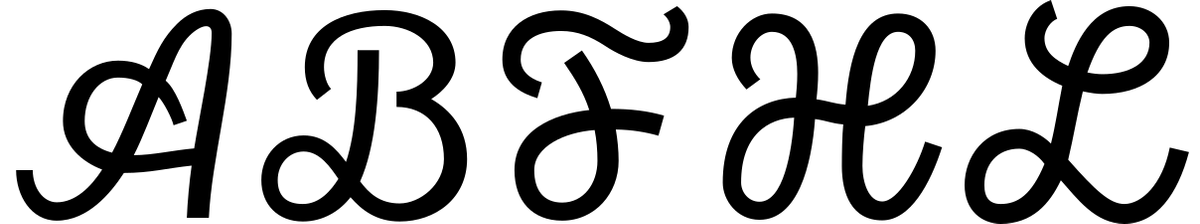
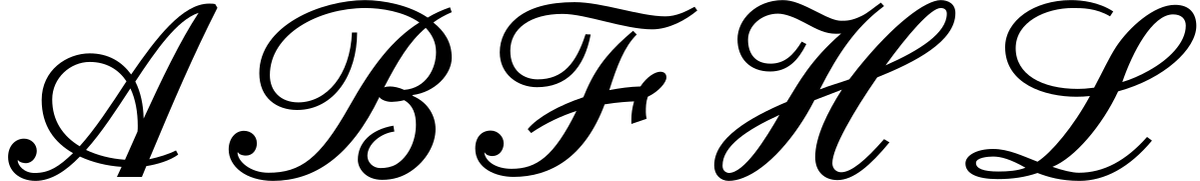
Fix mathcal/mathscr for Lato and PT Sans
\mathcal = Lete Sans Math calligraphic (tex-calligraphic.js, rounded)
\mathscr = NewCM Sans Math ss01 script (script.js, flowing traditional)

Both need data: tex-calligraphic.js stops \mathcal from falling through
to script.js. Without it, both commands show the same glyphs.

diff --git a/mathjax-lato/cjs/svg/script.js b/mathjax-lato/cjs/svg/script.js
@@ -1,0 +1,31 @@
+"use strict";
+Object.defineProperty(exports, "__esModule", { value: true });
+exports.script = void 0;
+exports.script = {
+    0x1D49C: [0.707, 0.016, 0.897, { p: '878 705C870 707 862 707 853 707C745 707 638 568 535 418C498 469 443 504 366 504C273 504 170 436 170 314C170 209 222 140 298 97C240 41 200 16 141 16C97 16 72 48 72 68H74C81 58 100 56 105 56C134 56 150 84 150 106C150 134 127 156 98 156C63 156 33 127 33 81C33 25 78 -16 145 -16C208 -16 268 23 326 83C378 59 436 45 496 41L477 0H579L597 44C641 51 693 66 727 91L718 108C689 93 647 80 609 72C711 316 790 499 887 690ZM810 669C736 557 659 397 586 238C585 293 574 346 552 389C638 519 722 639 809 669ZM562 209C562 200 562 193 561 185L510 70C451 74 398 88 351 110C414 180 473 271 532 361C553 317 562 263 562 209ZM516 390C452 292 386 192 325 125C257 166 213 229 213 316C213 405 288 469 366 469C435 469 485 437 516 390Z' }],
+    0x1D49E: [0.721, 0.016, 0.836, { p: '471 677C411 715 352 721 307 721C143 721 39 623 39 523C39 415 129 360 217 345C186 286 167 227 167 166C167 50 259 -16 373 -16C437 -16 501 3 556 41C611 79 657 135 657 196C657 269 607 304 533 304C422 304 326 196 326 68L349 66C360 179 444 259 515 259C554 259 590 236 590 181C590 103 493 16 378 16C299 16 255 65 255 131C255 184 268 253 327 340C578 340 819 496 819 623C819 673 784 702 719 702C573 702 354 553 240 379C158 388 82 432 82 526C82 635 210 689 316 689C352 689 401 689 458 657ZM347 372C464 538 622 663 724 663C758 663 776 649 776 621C776 559 704 487 604 436C527 397 430 371 348 371Z' }],
+    0x1D49F: [0.721, 0.016, 0.928, { p: '850 616C808 601 797 596 761 570C687 660 565 721 428 721C228 721 72 605 72 451C72 335 168 259 290 259C388 259 536 334 536 519C536 534 536 549 534 564H514C513 370 413 291 287 291C184 291 115 361 115 443C115 586 230 687 435 687C550 687 667 630 729 544C660 486 599 411 541 318C455 179 394 101 328 60C264 93 208 114 150 114C84 114 38 91 38 57C38 17 87 -9 173 -9C235 -9 290 0 342 19C391 0 445 -16 506 -16C677 -16 843 140 843 340C843 412 821 480 784 539C814 573 819 578 858 595ZM793 352C793 142 654 17 501 17C461 17 422 25 385 38C404 47 422 59 441 71C530 132 597 217 646 317C678 380 712 448 754 504C779 457 793 406 793 352ZM290 41C255 27 217 22 172 22C111 22 81 34 81 57C81 79 131 83 151 83C199 83 238 68 290 41Z' }],
+    0x1D4A2: [0.721, 0.016, 0.811, { p: '437 685C395 710 351 721 304 721C179 721 87 653 87 568C87 486 157 435 262 418C243 381 235 336 235 306C235 223 297 173 379 173C428 173 476 188 523 219L525 218C459 93 387 17 258 17C192 17 134 50 128 83H130C136 72 148 69 161 69C190 69 207 94 207 123C207 149 181 172 153 172C116 172 91 141 91 100C91 41 165 -16 269 -16C444 -16 558 64 615 219C636 276 650 313 684 346L668 363C546 252 462 205 386 205C340 205 317 236 317 275C317 306 326 360 360 409C569 409 776 514 776 622C776 673 727 702 668 702C552 702 377 608 276 449C185 462 130 507 130 568C130 633 202 689 312 689C348 689 388 684 428 666ZM733 619C733 537 558 441 379 441C446 560 583 663 673 663C706 663 733 648 733 619Z' }],
+    0x1D4A5: [0.707, 0.186, 0.841, { p: '579 202C538 167 497 146 455 130L547 348C618 362 679 405 716 478L700 490C660 429 615 397 562 384C611 492 664 595 722 636C768 636 831 641 831 686C831 699 817 707 806 707C792 707 774 707 736 686C693 689 675 692 603 692C484 692 321 632 321 487C321 407 375 362 448 347C410 268 379 166 340 90C269 68 195 48 141 23C51 -19 9 -68 9 -117C9 -158 41 -186 91 -186C229 -186 370 -39 436 89C494 110 549 145 595 186ZM670 635C579 569 517 484 465 381C411 382 364 422 364 476C364 548 428 598 489 620C521 632 577 638 625 638C641 638 657 637 670 636ZM317 45C251 -76 180 -154 91 -154C68 -154 54 -135 54 -115C54 -90 68 -51 146 -14C192 9 253 24 317 45Z' }],
+    0x1D4A6: [0.721, 0.016, 1.058, { p: '809 702C757 655 692 627 646 627C623 627 593 641 556 660C484 697 449 711 407 711C298 711 221 632 221 553C221 475 283 421 367 421C437 421 491 465 526 533L507 542C472 487 425 452 369 452C303 452 264 496 264 551C264 606 321 657 388 657C418 657 456 642 495 621C551 591 583 575 625 575C636 575 654 577 663 580L664 577C535 471 498 377 410 220C330 80 277 17 190 17C127 17 83 50 79 83H81C87 72 102 69 111 69C141 69 157 94 157 121C157 151 135 173 108 173C66 173 42 135 42 95C42 39 101 -16 192 -16C316 -16 440 44 573 337C579 325 587 321 608 321C649 321 650 298 650 288C650 221 561 156 561 73C561 22 609 -13 659 -13C723 -13 793 43 871 138L851 154C773 65 714 19 673 19C653 19 640 33 640 55C640 98 720 172 720 243C720 276 705 301 669 337V339C757 367 820 421 891 548C919 599 941 662 961 678H962C963 643 990 630 1009 630C1039 630 1053 651 1053 678C1053 707 1029 721 1000 721C944 721 875 637 777 494C715 403 683 372 639 363C625 376 611 378 595 378C659 489 710 600 822 685Z' }],
+    0x1D4A9: [0.721, 0.016, 1.018, { p: '597 137C612 212 620 305 625 410C633 550 639 645 653 690L639 702C572 675 483 547 375 327C280 135 204 15 125 15C110 15 94 23 92 38H95C101 35 107 34 112 34C140 34 156 58 156 81C156 108 134 134 102 134C68 134 40 106 40 65C40 21 76 -16 124 -16C216 -16 288 88 410 330C467 444 526 543 560 591L561 590C543 526 536 420 533 312C529 169 519 66 499 -14H520C617 67 688 236 747 381C821 562 870 653 905 671H908C908 638 939 624 958 624C983 624 1003 643 1003 672C1003 703 980 721 948 721C918 721 895 708 871 682C819 627 770 519 726 413C681 304 635 193 598 137Z' }],
+    0x1D4AA: [0.713, 0.016, 0.726, { p: '696 576C696 651 638 713 547 713C297 713 86 466 86 197C86 84 149 -16 271 -16C490 -16 668 213 668 415C668 527 589 569 521 569C434 569 352 491 352 380C352 347 356 298 389 243L412 254C387 302 384 338 384 364C384 471 452 531 518 531C566 531 615 493 615 415C615 278 533 167 492 124C430 60 359 16 269 16C187 16 149 81 149 157C149 348 364 677 542 677C619 677 656 633 675 574Z' }],
+    0x1D4AB: [0.721, 0.016, 0.955, { p: '898 702C864 689 836 676 810 659C745 699 661 721 578 721C328 721 166 575 166 432C166 349 228 296 315 296C467 296 542 447 553 589H532C501 427 434 327 317 327C257 327 209 370 209 428C209 561 362 689 577 689C646 689 722 675 778 639C676 564 613 451 519 284C402 74 334 17 202 17C128 17 77 64 77 100H79C85 89 102 87 110 87C140 87 155 111 155 137C155 168 131 188 102 188C67 188 40 157 40 113C40 44 110 -16 221 -16C386 -16 519 74 640 317C705 447 737 548 808 617C842 586 865 543 865 488C865 401 826 331 767 331C745 331 731 344 731 362C731 376 734 399 769 419L758 437C722 418 698 385 698 355C698 319 722 285 773 285C862 285 929 377 929 469C929 541 892 600 836 642C856 657 878 670 905 682Z' }],
+    0x1D4AC: [0.713, 0.04, 0.726, { p: '696 576C696 651 637 713 547 713C297 713 86 466 86 197C86 84 149 -16 271 -16C326 -16 380 -1 428 24C449 -8 473 -40 525 -40C561 -40 613 -16 664 46L648 61C611 24 570 10 541 10C509 10 492 29 476 55C592 137 668 282 668 415C668 527 589 569 521 569C434 569 352 491 352 380C352 347 356 298 389 243L412 254C387 302 384 338 384 364C384 471 452 531 518 531C566 531 615 493 615 415C615 278 533 167 492 124C480 111 468 101 456 90C439 121 415 149 366 149C328 149 297 129 253 88L266 70C297 93 320 101 346 101C377 101 393 81 409 56C367 30 321 16 269 16C187 16 149 81 149 157C149 348 364 677 542 677C619 677 656 633 675 574Z' }],
+    0x1D4AE: [0.713, 0.016, 0.779, { p: '416 150C403 264 324 314 245 314C159 314 70 254 70 149C70 30 175 -16 277 -16C439 -16 574 72 574 214C574 352 404 400 404 515C404 611 507 676 587 676C643 676 701 655 701 591C701 525 650 485 586 478V456C658 456 735 515 735 592C735 680 658 713 589 713C476 713 323 645 323 495C323 357 488 312 488 200C488 79 383 16 285 16C201 16 135 70 135 144C135 222 202 269 253 269C309 269 363 256 395 146Z' }],
+    0x1D4AF: [0.721, 0.016, 0.957, { p: '940 708C905 685 865 665 821 665C716 665 576 721 461 721C272 721 134 632 134 496C134 402 207 345 293 345C411 345 493 426 520 568H499C462 449 403 377 300 377C235 377 177 420 177 504C177 594 270 672 401 672C498 672 653 613 767 613C835 613 904 650 951 689ZM690 580C606 509 548 444 476 291C381 85 309 17 193 17C127 17 86 46 82 83H84C90 72 105 70 113 70C143 70 161 94 161 122C161 150 137 173 109 173C72 173 45 146 45 95C45 33 115 -16 200 -16C276 -16 337 7 397 47C486 106 553 208 584 319C617 433 648 511 704 565Z' }],
+    0x1D4B0: [0.721, 0.016, 0.883, { p: '844 690H754L618 435C563 334 366 16 249 16C226 16 218 30 218 45C218 62 230 90 259 136L454 437C486 486 494 532 494 568C494 669 402 721 306 721C172 721 38 626 38 497C38 426 88 378 158 378C250 378 309 465 324 534H303C278 462 236 409 157 409C109 409 81 447 81 497C81 611 184 684 297 684C357 684 424 648 424 596C424 569 416 537 386 490L234 252C177 163 161 116 161 77C161 20 195 -16 245 -16C304 -16 386 43 461 145L464 144C449 111 446 87 446 69C446 19 486 -13 536 -13C602 -13 670 45 749 141L727 154C651 67 593 19 551 19C532 19 516 29 516 56C516 63 517 82 534 113Z' }],
+    0x1D4B1: [0.721, 0.016, 0.978, { p: '224 22C305 94 384 220 442 364C489 483 526 568 636 686L620 702L592 679C549 643 499 627 462 627C439 627 408 641 371 660C299 697 271 711 229 711C127 711 37 632 37 553C37 475 99 421 183 421C253 421 304 465 339 533L322 542C287 487 240 452 185 452C120 452 80 496 80 551C80 606 136 657 204 657C276 657 355 570 456 570C467 570 485 572 494 575L497 572C404 482 345 403 295 275C226 98 200 45 141 -9C175 -16 184 -16 190 -16C258 -16 326 20 404 81C473 134 561 241 665 404C777 579 840 658 875 678H876C876 644 895 626 922 626C946 626 967 645 967 671C967 701 944 721 915 721C840 721 758 601 637 416C493 198 381 52 227 20Z' }],
+    0x1D4B2: [0.721, 0.016, 1.131, { p: '477 25C565 113 623 217 682 350C743 490 787 617 863 671C838 680 821 683 810 683C719 683 614 570 486 343C418 221 319 61 206 20L204 23C285 97 359 217 409 348C469 504 534 605 615 685L599 702L571 679C528 643 478 627 441 627C418 627 398 641 361 660C288 697 250 711 208 711C106 711 37 632 37 553C37 475 93 421 172 421C239 421 283 465 318 533L301 542C266 487 230 452 174 452C113 452 80 496 80 551C80 606 126 657 193 657C262 657 340 570 435 570C446 570 464 572 473 575L475 573C383 479 320 394 274 272C229 152 189 49 120 -9C134 -13 155 -16 169 -16C279 -16 399 116 511 319C591 462 698 630 786 646L787 645C672 523 600 403 538 233C501 132 458 52 390 -12C404 -16 420 -16 439 -16C550 -16 665 114 773 300C917 548 990 667 1031 679H1032C1032 644 1050 626 1077 626C1103 626 1122 646 1122 671C1122 703 1098 721 1070 721C991 721 929 634 760 339C661 168 579 63 479 23Z' }],
+    0x1D4B3: [0.721, 0.016, 0.935, { p: '599 513C599 628 519 721 392 721C272 721 177 635 177 522C177 442 229 390 308 390C382 390 440 443 464 528L444 533C422 472 386 422 312 422C250 422 220 466 220 521C220 620 296 686 389 686C478 686 519 633 519 531C519 458 480 356 427 261C352 131 257 16 175 16C125 16 94 31 77 72C82 69 95 66 103 66C132 66 152 93 152 122C152 148 127 171 99 171C62 171 38 136 38 95C38 43 78 -16 157 -16C264 -16 340 46 411 148H413C407 132 404 103 404 90C404 21 444 -15 510 -15C596 -15 654 55 725 146L704 162C626 71 579 31 540 31C501 31 488 60 488 100C488 169 530 275 558 339C650 547 748 686 825 686C812 673 807 657 807 644C807 611 833 596 859 596C887 596 916 617 916 655C916 702 880 721 838 721C766 721 685 662 601 513Z' }],
+    0x1D4B4: [0.721, 0.237, 0.971, { p: '865 690 673 427C518 214 418 117 345 117C324 117 315 133 315 148C315 173 331 214 405 306C515 445 552 502 552 568C552 657 468 721 364 721C230 721 95 637 95 511C95 447 148 399 215 399C291 399 368 445 399 561H378C345 473 292 430 221 430C174 430 138 464 138 509C138 618 232 684 357 684C420 684 489 645 489 597C489 561 473 527 369 393C287 287 257 235 257 184C257 122 292 86 346 86C405 86 491 146 564 248L568 243C521 164 502 123 459 38C340 -1 129 -41 129 -169C129 -210 164 -237 214 -237C352 -237 492 -86 557 40C614 65 663 86 732 149L716 165C670 126 618 98 573 81C668 273 784 453 961 690ZM440 -2C373 -123 303 -206 214 -206C191 -206 173 -187 173 -167C173 -88 290 -51 440 -2Z' }],
+    0x1D4B5: [0.721, 0.016, 0.978, { p: '427 544C392 488 361 465 301 465C253 465 210 496 210 554C210 601 252 680 351 680C465 680 557 644 643 612C584 561 529 480 478 359C472 360 466 360 461 360C411 360 364 330 328 292L346 275C386 305 415 308 446 308C450 308 454 308 458 307C420 207 383 130 333 82C280 99 228 114 184 114C112 114 62 86 62 54C62 18 93 -9 179 -9C241 -9 298 6 349 36C453 0 502 -16 556 -16C686 -16 769 51 789 170L768 171C742 80 666 25 554 25C506 25 448 43 389 63C462 117 518 198 555 295C559 294 570 294 574 294C624 294 665 321 698 356L683 373C657 354 619 346 585 345C583 345 579 345 574 346C616 466 654 546 696 594C743 578 788 566 835 566C906 566 957 595 957 627C957 660 924 690 839 690C790 690 736 677 682 642C594 678 487 721 373 721C233 721 167 625 167 554C167 479 233 433 301 433C376 433 414 474 446 536ZM914 627C914 613 884 598 846 598C810 598 771 608 728 624C761 648 796 659 839 659C896 659 914 644 914 627ZM297 54C264 33 226 22 179 22C123 22 105 37 105 54C105 68 134 83 173 83C217 83 245 72 297 54Z' }],
+    0x212C: [0.721, 0.016, 0.997, { p: '939 692C905 680 876 667 848 650C772 701 669 721 592 721C414 721 161 618 161 423C161 322 232 273 315 273C468 273 560 421 560 589H539C532 415 435 304 320 304C247 304 204 351 204 415C204 582 402 689 594 689C657 689 750 675 814 630C702 559 620 451 526 284C407 74 329 17 198 17C124 17 72 64 72 100H74C81 89 98 87 106 87C135 87 151 111 151 137C151 168 127 188 98 188C63 188 36 156 36 112C36 43 106 -16 217 -16C384 -16 533 81 651 326C657 315 679 306 701 306C708 306 735 308 752 313C789 292 800 255 800 213C800 148 770 82 719 51C700 40 678 36 655 36C625 36 602 59 602 86C602 133 655 178 712 185L708 209C615 193 563 138 563 70C563 34 595 -12 662 -12C707 -12 745 0 779 23C843 66 880 134 880 195C880 245 853 303 786 331V334C877 345 946 418 946 486C946 550 916 594 871 630C893 646 918 660 946 672ZM882 509C882 442 842 362 752 355C731 365 708 369 694 369C688 369 676 368 670 365C725 471 772 551 840 608C865 582 882 550 882 509Z' }],
+    0x2130: [0.721, 0.016, 0.787, { p: '442 690C390 716 355 721 303 721C183 721 105 654 105 576C105 482 206 424 352 421C358 421 359 405 364 400V398C206 365 115 270 115 162C115 45 221 -16 342 -16C486 -16 613 74 613 169C613 238 568 290 472 290C369 290 288 216 260 103L282 97C307 186 382 245 454 245C509 245 546 216 546 168C546 137 534 106 509 79C476 43 423 16 352 16C256 16 201 77 201 141C201 231 280 326 406 360C423 350 440 345 462 345C487 345 506 355 506 375C506 395 476 405 427 407C425 411 424 413 423 420C617 434 770 530 770 614C770 664 732 690 665 690C536 690 361 596 348 453C240 453 148 495 148 573C148 640 214 689 316 689C373 689 390 687 431 671ZM727 617C727 551 595 462 423 451C436 546 573 651 672 651C703 651 727 638 727 617Z' }],
+    0x2131: [0.713, 0, 0.964, { p: '940 694C905 675 865 655 821 655C716 655 565 713 450 713C344 713 264 690 212 646C171 612 145 563 145 508C145 419 218 366 297 366C415 366 489 440 516 581L495 582C457 464 403 398 300 398C245 398 188 431 188 515C188 605 270 665 401 665C498 665 653 602 767 602C835 602 904 640 951 679ZM689 596C605 525 546 461 500 358C495 346 491 336 486 325C387 292 300 244 259 195L273 179C335 221 399 250 458 269C366 82 295 33 193 33C131 33 87 62 82 99H84C90 88 106 85 114 85C144 85 161 110 161 137C161 166 136 189 108 189C71 189 45 162 45 116C45 35 128 0 201 0C351 0 492 79 573 296C628 305 671 307 693 308C685 280 682 256 682 235V216L744 237C742 247 741 258 741 264C741 284 741 304 749 327C795 349 825 386 825 406C825 423 813 429 800 429C780 429 746 410 719 369C676 368 634 362 592 354C624 454 653 531 704 581Z' }],
+    0x210B: [0.721, 0.016, 1.046, { p: '749 697 736 711C710 693 683 669 658 657C617 637 596 637 574 637C551 637 520 650 484 669C411 706 377 721 335 721C226 721 151 641 151 562C151 485 200 430 284 430C355 430 398 474 432 542L413 552C379 496 342 462 286 462C220 462 194 506 194 560C194 616 249 666 316 666C345 666 384 651 423 630C478 600 511 584 553 584C558 584 566 584 574 585C448 475 403 388 352 306C198 241 56 157 56 47C56 9 81 -16 115 -16C134 -16 154 -12 174 -4C273 34 386 158 465 313L577 356C519 266 468 163 468 81C468 22 505 -13 559 -13C623 -13 692 45 771 141L749 154C673 67 615 19 574 19C554 19 538 34 538 56C538 117 623 265 721 406C876 468 1040 553 1040 668C1040 706 1012 721 980 721C918 721 788 624 642 443L607 398C566 383 527 373 487 357C563 508 636 608 730 682ZM1005 666C1005 587 894 516 755 455C846 581 940 689 980 689C996 689 1005 681 1005 666ZM322 253C265 154 179 16 115 16C103 18 90 25 90 46C90 126 189 192 322 253Z' }],
+    0x2110: [0.708, 0.016, 0.941, { p: '66 100C72 89 89 87 98 87C127 87 143 111 143 137C143 168 119 188 89 188C55 188 27 156 27 112C27 43 98 -16 209 -16C316 -16 419 19 508 111C560 167 604 257 647 349C716 365 775 408 812 479L795 490C757 431 714 400 664 386C712 491 761 592 817 633C847 633 932 635 932 687C932 700 918 708 901 708C891 708 857 704 821 680C795 683 753 688 698 688C635 688 562 681 506 646C455 615 415 562 415 494C415 412 470 362 546 346C536 327 527 306 517 284C420 64 321 17 190 17C115 17 64 72 64 100ZM765 630C681 574 623 498 562 380C488 389 458 443 458 485C458 542 500 587 548 608C595 629 657 634 709 634C730 634 749 634 765 633Z' }],
+    0x2112: [0.721, 0.016, 0.992, { p: '638 675C578 714 510 721 465 721C315 721 197 638 197 529C197 379 358 327 488 327C506 327 526 328 543 330C475 204 385 98 329 62C269 85 211 114 148 114C78 114 35 86 35 55C35 14 81 -9 167 -9C228 -9 280 -1 329 16C371 0 422 -16 501 -16C603 -16 704 38 796 148L776 163C690 66 599 17 498 17C470 17 431 27 390 41C480 77 593 209 658 349C846 400 977 523 977 616C977 665 951 702 890 702C805 702 703 611 650 531C620 485 596 431 560 364C529 360 513 359 494 359C345 359 240 419 240 525C240 633 363 689 473 689C510 689 568 689 625 655ZM934 617C934 546 863 478 784 434C748 414 710 397 675 387C716 507 797 663 882 663C916 663 934 645 934 617ZM279 37C247 25 210 22 169 22C108 22 78 34 78 57C78 79 128 83 148 83C180 83 219 72 279 38Z' }],
+    0x2133: [0.707, 0.016, 1.125, { p: '1099 705C1087 707 1078 707 1070 707C861 680 701 333 581 141C547 85 518 41 491 41C479 41 477 49 477 60C477 82 492 115 495 124C546 238 685 484 833 692L817 705C807 707 804 707 799 707C685 707 572 615 361 262C253 82 196 16 125 16C110 16 94 23 92 38H95C101 35 106 34 111 34C140 34 156 57 156 80C156 107 134 134 102 134C68 134 40 106 40 66C40 21 76 -16 124 -16C247 -16 322 138 496 416C570 533 669 644 747 676L748 675C678 595 602 477 547 391C484 295 397 151 397 69C397 25 420 -4 455 -4C541 -4 587 81 679 242C831 512 935 633 1025 666L1026 664C819 386 703 188 703 73C703 19 743 -13 793 -13C858 -13 927 45 1006 141L986 157C911 70 850 19 808 19C789 19 773 29 773 56C773 117 907 375 1108 691Z' }],
+    0x211B: [0.721, 0.016, 0.99, { p: '894 702C860 689 832 676 806 659C741 699 657 721 574 721C324 721 162 575 162 432C162 349 223 296 311 296C455 296 540 448 549 584H528C497 423 430 327 313 327C253 327 205 370 205 428C205 561 358 689 573 689C642 689 718 675 774 639C671 564 603 451 510 284C392 74 329 17 198 17C124 17 72 64 72 100H74C81 89 98 87 106 87C135 87 151 111 151 137C151 168 127 188 98 188C63 188 36 157 36 113C36 44 106 -16 217 -16C382 -16 515 77 633 319C644 312 670 307 682 307C714 307 716 266 716 257C716 190 628 156 628 73C628 22 677 -13 726 -13C783 -13 843 31 911 108L893 125C829 56 776 19 741 19C720 19 707 33 707 55C707 98 787 166 787 237C787 270 763 301 730 325V327C852 331 919 412 919 496C919 551 890 605 832 642C852 657 874 670 901 682ZM854 510C854 437 804 362 720 354C702 365 681 371 657 371C707 475 743 557 804 617C838 590 854 551 854 510Z' }]
+};

diff --git a/mathjax-ptsans/cjs/svg/script.js b/mathjax-ptsans/cjs/svg/script.js
@@ -1,0 +1,31 @@
+"use strict";
+Object.defineProperty(exports, "__esModule", { value: true });
+exports.script = void 0;
+exports.script = {
+    0x1D49C: [0.691, 0.015, 0.876, { p: '858 689C850 691 842 691 833 691C728 691 623 554 523 408C487 458 433 492 358 492C266 492 166 426 166 306C166 204 217 136 291 94C235 40 196 15 137 15C94 15 71 47 71 67H73C79 56 97 54 102 54C131 54 147 82 147 104C147 131 124 153 95 153C61 153 32 124 32 79C32 25 76 -15 141 -15C203 -15 261 23 319 81C369 57 426 44 485 40L466 0H566L583 43C626 50 677 65 710 89L701 106C673 91 632 78 595 71C695 308 772 488 867 674ZM791 654C719 544 644 387 573 233C572 286 561 338 539 380C623 507 705 624 790 654ZM549 204C549 196 549 189 548 180L498 69C441 73 388 86 343 108C405 176 462 264 520 353C540 310 549 257 549 204ZM504 381C442 285 377 188 318 122C251 162 208 223 208 308C208 396 282 458 358 458C425 458 473 427 504 381Z' }],
+    0x1D49E: [0.704, 0.015, 0.817, { p: '460 661C402 699 344 704 300 704C139 704 38 609 38 511C38 406 126 352 212 337C181 280 163 221 163 162C163 49 253 -15 365 -15C427 -15 490 3 543 40C596 77 642 132 642 192C642 262 593 297 521 297C412 297 319 192 319 67L341 65C352 175 434 253 503 253C541 253 576 231 576 177C576 100 482 15 369 15C292 15 249 64 249 128C249 179 261 247 320 332C565 332 800 485 800 609C800 658 766 686 702 686C560 686 345 540 235 370C155 379 80 422 80 513C80 620 205 673 308 673C344 673 392 673 448 642ZM339 364C453 526 608 648 707 648C741 648 758 634 758 607C758 546 688 476 590 426C514 387 420 363 340 363Z' }],
+    0x1D49F: [0.704, 0.015, 0.907, { p: '830 602C789 587 779 582 743 557C671 645 552 704 418 704C222 704 71 591 71 441C71 327 164 253 283 253C379 253 524 326 524 507C524 522 524 536 522 551H502C501 362 404 284 281 284C179 284 113 353 113 433C113 573 224 671 425 671C537 671 652 616 712 532C645 475 585 402 529 311C445 175 385 98 321 58C258 91 203 112 147 112C82 112 37 89 37 55C37 16 85 -9 169 -9C230 -9 283 0 334 18C382 0 435 -15 494 -15C661 -15 824 136 824 332C824 403 802 469 766 527C795 560 800 565 838 581ZM775 344C775 138 639 16 490 16C450 16 412 25 376 37C395 46 412 57 430 70C518 129 583 212 631 310C662 371 696 438 737 492C761 447 775 397 775 344ZM283 40C249 27 212 22 168 22C109 22 79 33 79 55C79 77 128 81 148 81C195 81 233 67 283 40Z' }],
+    0x1D4A2: [0.704, 0.015, 0.792, { p: '427 669C386 694 343 704 297 704C175 704 85 637 85 554C85 475 154 425 256 408C238 372 230 328 230 299C230 218 290 169 370 169C418 169 465 183 511 214L512 213C449 91 378 16 252 16C188 16 131 49 125 81H127C133 71 145 68 157 68C186 68 202 92 202 120C202 146 177 168 150 168C114 168 89 137 89 97C89 40 161 -15 262 -15C434 -15 545 63 601 214C621 270 635 305 668 338L653 355C533 246 451 200 377 200C332 200 310 231 310 269C310 299 319 352 352 400C555 400 758 502 758 608C758 658 710 686 653 686C539 686 368 594 270 439C180 451 127 495 127 554C127 618 198 673 304 673C340 673 379 668 418 651ZM716 605C716 525 545 430 370 430C436 547 570 648 658 648C690 648 716 633 716 605Z' }],
+    0x1D4A5: [0.691, 0.181, 0.822, { p: '566 198C526 163 486 142 445 127L534 340C604 354 663 396 700 467L684 479C645 419 601 387 549 375C596 481 649 581 705 621C750 621 812 626 812 670C812 683 798 691 787 691C774 691 756 691 719 670C677 673 659 676 589 676C472 676 314 617 314 476C314 398 366 354 438 339C401 261 370 162 332 88C262 67 191 47 137 23C50 -18 9 -67 9 -115C9 -155 40 -181 89 -181C223 -181 362 -38 426 87C483 108 536 141 581 181ZM655 620C566 555 505 472 454 372C402 373 356 412 356 465C356 535 418 584 478 606C509 617 564 623 611 623C626 623 642 622 655 621ZM310 44C245 -74 176 -151 89 -151C67 -151 52 -132 52 -113C52 -88 67 -50 142 -13C188 9 247 24 310 44Z' }],
+    0x1D4A6: [0.704, 0.015, 1.034, { p: '790 686C740 640 676 613 631 613C609 613 579 626 543 645C472 681 439 695 398 695C291 695 216 617 216 540C216 464 277 411 359 411C427 411 480 454 513 521L495 530C461 476 415 442 361 442C296 442 258 485 258 538C258 592 314 642 379 642C408 642 446 627 484 607C538 577 570 562 611 562C621 562 639 564 648 567L649 564C523 460 487 368 401 215C323 78 271 16 186 16C124 16 81 49 77 81H79C85 71 99 68 109 68C137 68 154 92 154 118C154 148 132 169 106 169C65 169 41 132 41 93C41 38 98 -15 188 -15C308 -15 429 43 560 329C566 318 574 314 594 314C634 314 635 291 635 282C635 216 548 153 548 72C548 22 595 -12 644 -12C706 -12 775 42 851 135L831 151C755 64 698 18 658 18C637 18 625 32 625 53C625 95 703 168 703 238C703 270 689 294 654 329V331C740 359 801 411 870 535C898 585 919 647 939 662H940C941 628 967 616 986 616C1015 616 1029 636 1029 662C1029 691 1005 704 977 704C922 704 855 622 759 483C699 394 667 364 624 355C611 367 596 369 581 369C644 478 694 586 804 669Z' }],
+    0x1D4A9: [0.704, 0.015, 0.994, { p: '583 134C598 207 606 298 611 401C618 537 624 630 637 674L624 686C559 659 471 534 366 320C274 132 199 14 122 14C108 14 92 23 90 37H93C98 34 105 33 110 33C136 33 153 56 153 79C153 106 131 131 99 131C67 131 39 104 39 64C39 20 74 -15 121 -15C211 -15 282 86 401 323C456 434 513 531 547 577L548 576C531 513 524 410 521 304C517 165 507 65 488 -13H508C603 66 672 231 730 372C802 549 850 637 884 656H888C888 623 917 610 936 610C960 610 980 628 980 657C980 687 957 704 927 704C897 704 874 692 851 666C800 613 752 507 709 404C665 297 620 189 584 134Z' }],
+    0x1D4AA: [0.697, 0.015, 0.709, { p: '680 563C680 636 623 697 534 697C290 697 84 455 84 193C84 82 146 -15 264 -15C479 -15 653 208 653 406C653 514 575 555 509 555C424 555 344 480 344 371C344 339 347 291 380 238L403 248C378 295 375 330 375 356C375 460 442 519 506 519C553 519 601 482 601 406C601 272 521 163 481 121C420 58 351 15 262 15C182 15 146 79 146 154C146 340 356 661 530 661C605 661 641 618 659 561Z' }],
+    0x1D4AB: [0.704, 0.015, 0.933, { p: '877 686C845 673 817 660 791 644C728 683 646 704 565 704C321 704 162 562 162 422C162 341 222 289 307 289C456 289 530 437 540 575H520C490 417 424 320 310 320C251 320 204 362 204 418C204 548 354 673 564 673C631 673 705 659 760 624C660 551 599 441 507 278C393 73 326 16 198 16C125 16 75 63 75 97H77C83 87 99 85 108 85C136 85 152 109 152 134C152 164 128 183 99 183C66 183 39 154 39 111C39 43 108 -15 216 -15C377 -15 507 73 625 310C689 437 720 535 789 603C823 573 846 531 846 477C846 392 807 324 749 324C728 324 714 336 714 354C714 367 717 389 751 409L741 427C705 408 682 376 682 346C682 312 705 279 755 279C842 279 908 368 908 458C908 529 871 586 817 627C836 642 858 655 884 666Z' }],
+    0x1D4AC: [0.697, 0.039, 0.709, { p: '680 563C680 636 622 697 534 697C290 697 84 455 84 193C84 82 146 -15 264 -15C319 -15 371 -1 418 24C439 -8 462 -39 512 -39C548 -39 599 -15 649 45L633 59C596 24 557 10 529 10C497 10 481 29 465 53C578 134 653 276 653 406C653 514 575 555 509 555C424 555 344 480 344 371C344 339 347 291 380 238L403 248C378 295 375 330 375 356C375 460 442 519 506 519C553 519 601 482 601 406C601 272 521 163 481 121C469 109 457 98 446 88C428 118 406 146 358 146C321 146 290 126 247 86L260 69C290 91 313 98 338 98C368 98 384 79 400 54C359 30 314 15 262 15C182 15 146 79 146 154C146 340 356 661 530 661C605 661 641 618 659 561Z' }],
+    0x1D4AE: [0.697, 0.015, 0.761, { p: '407 147C394 258 317 306 240 306C156 306 69 248 69 146C69 30 171 -15 271 -15C428 -15 561 71 561 209C561 344 395 390 395 503C395 596 495 660 574 660C628 660 685 640 685 577C685 512 635 473 573 467V446C643 446 718 503 718 578C718 664 643 697 575 697C465 697 316 630 316 484C316 348 477 304 477 196C477 77 374 15 279 15C197 15 132 69 132 140C132 217 198 262 247 262C302 262 355 250 386 142Z' }],
+    0x1D4AF: [0.704, 0.015, 0.935, { p: '918 692C884 669 846 650 802 650C700 650 563 704 450 704C265 704 131 617 131 485C131 393 202 337 286 337C402 337 482 416 508 554H488C451 439 394 368 293 368C230 368 173 410 173 492C173 580 263 657 392 657C487 657 637 599 749 599C816 599 883 635 930 673ZM674 567C592 497 535 434 465 284C372 83 302 16 189 16C124 16 84 45 80 81H82C88 71 102 69 111 69C139 69 157 92 157 119C157 147 134 169 107 169C71 169 44 142 44 93C44 32 113 -15 196 -15C270 -15 329 7 387 46C475 104 540 203 571 312C603 423 633 499 688 552Z' }],
+    0x1D4B0: [0.704, 0.015, 0.863, { p: '825 674H737L604 425C550 326 358 15 243 15C220 15 213 30 213 44C213 60 224 88 253 133L444 427C475 475 483 520 483 554C483 654 393 704 299 704C168 704 37 612 37 486C37 416 86 369 155 369C244 369 302 454 317 522H296C272 451 231 400 154 400C107 400 79 437 79 486C79 596 179 668 290 668C348 668 414 633 414 582C414 555 407 525 377 479L229 246C173 159 157 114 157 75C157 19 191 -15 240 -15C297 -15 377 42 450 141L453 140C439 109 436 85 436 68C436 18 475 -12 524 -12C588 -12 655 44 732 137L710 151C636 66 579 18 538 18C520 18 504 29 504 54C504 61 505 80 522 111Z' }],
+    0x1D4B1: [0.704, 0.015, 0.955, { p: '219 22C298 92 375 215 431 356C478 471 513 554 621 670L606 686L578 663C536 628 488 613 451 613C428 613 399 626 363 645C292 681 264 695 223 695C124 695 36 617 36 540C36 464 96 411 178 411C247 411 297 454 331 521L315 530C281 476 235 442 180 442C117 442 78 485 78 538C78 592 133 642 199 642C270 642 346 557 446 557C456 557 473 559 483 562L486 559C395 470 337 394 288 269C220 95 196 44 137 -9C171 -15 179 -15 186 -15C252 -15 319 19 395 79C462 131 548 236 650 395C759 566 821 643 855 662H856C856 629 874 612 901 612C924 612 945 630 945 656C945 685 922 704 894 704C821 704 741 587 622 407C482 194 372 51 221 19Z' }],
+    0x1D4B2: [0.704, 0.015, 1.105, { p: '466 25C552 111 609 212 666 342C726 479 769 603 843 656C819 664 802 667 791 667C702 667 600 557 475 335C408 216 312 59 201 19L199 23C279 94 351 212 400 340C458 492 522 591 601 669L585 686L558 663C516 628 467 613 430 613C408 613 388 626 353 645C282 681 244 695 203 695C104 695 36 617 36 540C36 464 91 411 168 411C234 411 277 454 311 521L294 530C260 476 224 442 170 442C111 442 78 485 78 538C78 592 123 642 189 642C256 642 332 557 425 557C436 557 453 559 462 562L464 560C374 468 313 385 267 265C223 149 184 48 117 -9C131 -12 152 -15 165 -15C273 -15 389 114 499 312C577 451 682 616 768 631L769 630C657 511 586 394 526 228C490 129 448 51 381 -11C395 -15 410 -15 428 -15C537 -15 650 112 755 293C896 535 967 652 1007 663H1008C1008 629 1026 612 1053 612C1077 612 1097 631 1097 656C1097 687 1073 704 1045 704C969 704 908 619 742 331C646 164 566 61 468 23Z' }],
+    0x1D4B3: [0.704, 0.015, 0.913, { p: '585 501C585 614 507 704 383 704C265 704 173 620 173 510C173 431 223 381 301 381C373 381 429 433 453 516L434 521C412 461 377 412 304 412C244 412 215 455 215 509C215 606 289 670 380 670C467 670 507 618 507 519C507 448 469 347 417 255C344 128 251 15 171 15C122 15 92 31 75 71C80 68 93 65 100 65C129 65 149 91 149 119C149 145 124 167 96 167C60 167 37 133 37 93C37 42 76 -15 154 -15C258 -15 332 45 402 145H404C398 129 395 100 395 88C395 20 434 -14 498 -14C582 -14 639 53 708 142L688 158C612 70 566 31 528 31C490 31 477 58 477 97C477 165 518 269 545 331C635 534 731 670 806 670C793 658 788 642 788 629C788 596 814 582 839 582C867 582 895 603 895 640C895 686 860 704 819 704C748 704 669 647 587 501Z' }],
+    0x1D4B4: [0.704, 0.232, 0.949, { p: '846 674 658 417C506 209 408 115 337 115C317 115 307 130 307 145C307 169 324 209 396 299C503 435 539 491 539 554C539 642 457 704 356 704C224 704 93 622 93 499C93 437 145 389 210 389C284 389 360 435 389 548H369C337 462 285 420 216 420C170 420 135 453 135 497C135 604 227 668 348 668C410 668 478 630 478 583C478 548 462 514 361 384C281 281 251 230 251 179C251 119 285 84 338 84C396 84 480 142 551 242L554 238C509 160 491 120 449 37C332 -1 126 -40 126 -165C126 -205 160 -232 209 -232C344 -232 481 -84 544 39C600 64 648 84 715 146L700 161C655 123 604 95 560 79C653 266 766 443 939 674ZM429 -2C365 -120 296 -201 209 -201C187 -201 169 -182 169 -163C169 -86 283 -50 429 -2Z' }],
+    0x1D4B5: [0.704, 0.015, 0.955, { p: '417 532C383 477 353 454 294 454C247 454 205 485 205 541C205 587 246 664 343 664C454 664 544 629 628 598C571 548 517 469 467 351C461 352 455 352 450 352C402 352 356 323 321 285L338 269C377 298 406 301 436 301C440 301 444 301 448 300C410 202 374 127 325 80C274 96 222 112 179 112C110 112 60 84 60 52C60 17 91 -9 175 -9C236 -9 291 6 341 35C443 0 491 -15 543 -15C670 -15 751 50 771 166L750 167C725 78 651 25 541 25C494 25 438 42 380 61C451 115 506 194 542 288C546 287 557 287 561 287C610 287 650 314 682 347L667 365C642 345 605 338 572 337C570 337 566 337 561 338C602 455 639 533 680 580C726 565 770 553 816 553C886 553 935 581 935 613C935 645 903 674 820 674C772 674 719 661 666 627C580 662 476 704 365 704C228 704 163 611 163 541C163 468 228 423 294 423C367 423 405 463 436 524ZM893 613C893 599 864 584 826 584C791 584 753 594 711 610C743 633 778 644 820 644C875 644 893 629 893 613ZM290 52C258 32 220 22 175 22C120 22 102 36 102 52C102 67 131 81 169 81C212 81 240 71 290 52Z' }],
+    0x212C: [0.704, 0.015, 0.974, { p: '917 676C884 664 856 652 828 635C754 685 654 704 578 704C405 704 157 604 157 413C157 315 227 266 307 266C457 266 547 411 547 575H527C520 406 425 297 313 297C241 297 199 343 199 406C199 569 393 673 580 673C642 673 733 659 795 616C686 546 606 441 513 278C398 73 322 16 194 16C121 16 71 63 71 97H73C79 87 95 85 104 85C132 85 148 109 148 134C148 164 124 183 95 183C61 183 35 153 35 110C35 42 104 -15 212 -15C375 -15 521 79 636 319C642 307 663 299 685 299C692 299 718 301 735 305C771 285 782 249 782 208C782 145 752 80 702 50C684 39 662 35 640 35C611 35 588 57 588 84C588 130 640 174 696 180L692 204C601 189 550 135 550 69C550 33 581 -11 647 -11C691 -11 728 0 761 23C824 65 860 131 860 191C860 240 833 296 768 324V326C857 337 924 408 924 475C924 537 895 580 851 616C872 631 897 645 924 657ZM862 497C862 431 823 354 735 346C714 357 692 361 678 361C672 361 660 360 655 357C708 460 754 538 821 594C846 569 862 537 862 497Z' }],
+    0x2130: [0.704, 0.015, 0.769, { p: '431 674C381 700 346 704 296 704C178 704 102 639 102 563C102 470 201 414 344 411C349 411 351 396 356 390V388C201 357 113 263 113 158C113 44 216 -15 334 -15C475 -15 599 73 599 165C599 233 554 283 461 283C361 283 282 211 254 100L276 94C300 181 373 240 444 240C497 240 533 211 533 164C533 134 522 104 497 77C465 42 413 15 344 15C250 15 197 75 197 137C197 225 274 319 397 352C413 342 429 337 451 337C476 337 494 346 494 366C494 386 465 396 417 398C415 402 414 404 413 410C603 424 752 518 752 600C752 649 715 674 650 674C524 674 353 582 340 443C235 443 145 484 145 560C145 625 209 673 308 673C365 673 381 671 421 656ZM710 603C710 538 581 451 413 441C426 533 560 636 657 636C687 636 710 623 710 603Z' }],
+    0x2131: [0.697, 0, 0.942, { p: '918 678C884 659 846 640 802 640C700 640 552 697 440 697C336 697 258 674 207 631C167 598 141 550 141 496C141 409 213 358 290 358C406 358 478 429 504 568L484 569C447 453 394 388 293 388C240 388 183 421 183 503C183 591 263 650 392 650C487 650 637 588 749 588C816 588 883 625 930 663ZM673 582C591 512 533 450 489 349C484 338 480 328 475 318C378 285 293 239 253 191L266 175C327 216 389 244 448 262C358 80 288 32 189 32C128 32 85 60 80 96H82C88 86 104 83 112 83C140 83 157 108 157 134C157 162 133 184 106 184C70 184 44 158 44 114C44 34 125 0 197 0C343 0 481 77 560 289C614 298 656 300 677 301C669 274 666 250 666 230V211L727 232C725 241 724 252 724 258C724 278 724 297 732 320C777 341 806 377 806 397C806 413 794 419 782 419C763 419 729 401 702 361C660 360 619 354 578 345C610 444 637 519 688 568Z' }],
+    0x210B: [0.704, 0.015, 1.022, { p: '732 681 719 695C694 677 667 654 643 642C603 622 582 622 561 622C538 622 508 635 472 654C402 690 368 704 327 704C220 704 148 626 148 549C148 473 196 420 278 420C346 420 388 463 422 530L404 539C370 485 334 451 280 451C215 451 190 494 190 547C190 602 243 651 308 651C337 651 375 636 413 616C467 586 499 571 540 571C545 571 553 571 561 572C438 464 394 379 344 299C194 236 54 154 54 46C54 9 79 -15 113 -15C131 -15 151 -11 170 -4C266 33 377 155 454 305L564 347C507 260 457 159 457 79C457 22 493 -12 546 -12C609 -12 676 44 753 137L732 151C658 66 601 18 561 18C541 18 526 33 526 54C526 115 609 259 704 397C856 457 1016 540 1016 653C1016 690 989 704 957 704C897 704 770 610 627 433L593 388C553 374 514 365 476 348C550 496 621 594 713 666ZM982 651C982 574 873 504 738 445C826 568 918 673 957 673C973 673 982 665 982 651ZM315 247C259 151 175 15 113 15C100 17 88 25 88 45C88 123 184 188 315 247Z' }],
+    0x2110: [0.692, 0.015, 0.919, { p: '65 97C71 87 87 85 95 85C124 85 139 109 139 134C139 164 116 183 87 183C53 183 27 153 27 110C27 42 95 -15 204 -15C308 -15 409 18 496 109C547 163 590 251 632 341C700 357 757 399 793 468L777 479C740 421 698 390 649 377C696 480 743 578 798 618C827 618 910 620 910 671C910 684 897 692 880 692C870 692 837 688 802 664C777 667 736 672 682 672C620 672 549 665 494 631C445 601 406 549 406 483C406 403 459 354 533 338C524 320 514 299 505 278C410 63 314 16 186 16C113 16 63 71 63 97ZM747 616C665 561 609 487 549 371C477 380 448 433 448 473C448 530 489 574 535 594C581 615 642 619 693 619C713 619 732 619 747 618Z' }],
+    0x2112: [0.704, 0.015, 0.97, { p: '623 659C565 698 498 704 454 704C307 704 193 623 193 517C193 370 349 320 477 320C494 320 513 321 531 323C464 199 376 95 322 60C262 83 206 112 145 112C76 112 34 84 34 53C34 13 79 -9 163 -9C222 -9 274 -1 322 15C363 0 412 -15 490 -15C589 -15 688 37 778 145L758 159C674 65 585 16 487 16C459 16 421 27 381 40C469 75 579 204 643 341C826 390 954 511 954 602C954 650 930 686 869 686C786 686 687 596 635 519C606 473 582 421 547 356C517 352 501 351 483 351C337 351 235 409 235 512C235 618 355 673 462 673C498 673 554 673 611 640ZM912 603C912 533 843 467 766 424C731 405 694 387 659 378C700 495 779 648 862 648C895 648 912 630 912 603ZM273 36C241 25 205 22 165 22C106 22 76 33 76 55C76 77 125 81 145 81C176 81 214 71 273 37Z' }],
+    0x2133: [0.691, 0.015, 1.099, { p: '1074 689C1062 691 1054 691 1045 691C841 664 685 325 568 137C534 83 506 40 480 40C468 40 466 48 466 58C466 80 481 113 484 121C533 233 669 472 814 676L798 689C788 691 785 691 781 691C669 691 559 601 353 256C247 80 192 15 122 15C108 15 92 23 90 37H93C98 34 104 33 109 33C136 33 153 55 153 78C153 105 131 131 99 131C67 131 39 104 39 65C39 20 74 -15 121 -15C241 -15 315 135 485 407C557 521 654 629 730 660L731 659C662 581 588 466 534 382C472 288 387 148 387 68C387 25 410 -4 445 -4C529 -4 574 79 663 237C812 500 913 618 1001 651L1002 649C800 377 687 183 687 72C687 18 726 -12 775 -12C838 -12 906 44 983 137L963 154C890 69 830 18 789 18C771 18 755 29 755 54C755 115 887 366 1082 675Z' }],
+    0x211B: [0.704, 0.015, 0.967, { p: '873 686C840 673 813 660 787 644C724 683 642 704 561 704C317 704 158 562 158 422C158 341 218 289 303 289C445 289 528 438 536 571H516C486 413 420 320 305 320C247 320 200 362 200 418C200 548 349 673 560 673C627 673 701 659 756 624C656 551 589 441 498 278C383 73 322 16 194 16C121 16 71 63 71 97H73C79 87 95 85 104 85C132 85 148 109 148 134C148 164 124 183 95 183C61 183 35 154 35 111C35 43 104 -15 212 -15C373 -15 503 75 618 312C629 304 655 300 666 300C698 300 700 260 700 251C700 186 614 153 614 72C614 22 661 -12 709 -12C765 -12 824 31 890 106L872 122C810 54 758 18 724 18C703 18 691 32 691 53C691 95 769 162 769 232C769 263 745 294 713 318V320C832 324 898 403 898 485C898 538 869 591 813 627C832 642 854 655 880 666ZM834 498C834 427 785 354 703 345C686 357 665 363 642 363C691 464 726 544 785 603C819 576 834 538 834 498Z' }]
+};

diff --git a/mathjax-ptsans/cjs/svg.js b/mathjax-ptsans/cjs/svg.js
@@ -68,6 +68,8 @@ var up_js_1 = require("./svg/up.js");
 var dup_js_1 = require("./svg/dup.js");
 var tex_calligraphic_js_1 = require("./svg/tex-calligraphic.js");
 var tex_calligraphic_bold_js_1 = require("./svg/tex-calligraphic-bold.js");
+var script_js_1 = require("./svg/script.js");
+var script_bold_js_1 = require("./svg/script-bold.js");
 var delimiters_js_1 = require("./svg/delimiters.js");
 var Base = (0, common_js_1.CommonMathJaxPTSansMixin)(FontData_js_1.SvgFontData);
 var MathJaxPTSans = (function (_super) {
@@ -123,7 +125,9 @@ var MathJaxPTSans = (function (_super) {
         '-up': up_js_1.up,
         '-dup': dup_js_1.dup,
         '-tex-calligraphic': tex_calligraphic_js_1.texCalligraphic,
-        '-tex-bold-calligraphic': tex_calligraphic_bold_js_1.texCalligraphicBold
+        '-tex-bold-calligraphic': tex_calligraphic_bold_js_1.texCalligraphicBold,
+        'script': script_js_1.script,
+        'bold-script': script_bold_js_1.scriptBold
     };
     MathJaxPTSans.variantCacheIds = {
         'normal': 'N',
@@ -153,7 +157,9 @@ var MathJaxPTSans = (function (_super) {
         '-up': 'U',
         '-dup': 'D',
         '-tex-calligraphic': 'TC',
-        '-tex-bold-calligraphic': 'TBC'
+        '-tex-bold-calligraphic': 'TBC',
+        'script': 'SC',
+        'bold-script': 'BSC'
     };
     return MathJaxPTSans;
 }(Base));

diff --git a/mathjax-lato/cjs/svg.js b/mathjax-lato/cjs/svg.js
@@ -68,6 +68,8 @@ var up_js_1 = require("./svg/up.js");
 var dup_js_1 = require("./svg/dup.js");
 var tex_calligraphic_js_1 = require("./svg/tex-calligraphic.js");
 var tex_calligraphic_bold_js_1 = require("./svg/tex-calligraphic-bold.js");
+var script_js_1 = require("./svg/script.js");
+var script_bold_js_1 = require("./svg/script-bold.js");
 var delimiters_js_1 = require("./svg/delimiters.js");
 var Base = (0, common_js_1.CommonMathJaxLatoMixin)(FontData_js_1.SvgFontData);
 var MathJaxLato = (function (_super) {
@@ -123,7 +125,9 @@ var MathJaxLato = (function (_super) {
         '-up': up_js_1.up,
         '-dup': dup_js_1.dup,
         '-tex-calligraphic': tex_calligraphic_js_1.texCalligraphic,
-        '-tex-bold-calligraphic': tex_calligraphic_bold_js_1.texCalligraphicBold
+        '-tex-bold-calligraphic': tex_calligraphic_bold_js_1.texCalligraphicBold,
+        'script': script_js_1.script,
+        'bold-script': script_bold_js_1.scriptBold
     };
     MathJaxLato.variantCacheIds = {
         'normal': 'N',
@@ -153,7 +157,9 @@ var MathJaxLato = (function (_super) {
         '-up': 'U',
         '-dup': 'D',
         '-tex-calligraphic': 'TC',
-        '-tex-bold-calligraphic': 'TBC'
+        '-tex-bold-calligraphic': 'TBC',
+        'script': 'SC',
+        'bold-script': 'BSC'
     };
     return MathJaxLato;
 }(Base));

diff --git a/mathjax-lato/cjs/svg/script-bold.js b/mathjax-lato/cjs/svg/script-bold.js
@@ -1,0 +1,4 @@
+"use strict";
+Object.defineProperty(exports, "__esModule", { value: true });
+exports.scriptBold = void 0;
+exports.scriptBold = {};

diff --git a/mathjax-ptsans/cjs/svg/script-bold.js b/mathjax-ptsans/cjs/svg/script-bold.js
@@ -1,0 +1,4 @@
+"use strict";
+Object.defineProperty(exports, "__esModule", { value: true });
+exports.scriptBold = void 0;
+exports.scriptBold = {};

diff --git a/mathjax-lato/build.py b/mathjax-lato/build.py
@@ -168,7 +168,9 @@ def main():
     # Adjust integral widths for better subscript tucking
     adjust_integral_widths(OUTPUT_DIR, smallop_w_ratio=0.89, largeop_w_ratio=0.68)
 
-    # Wire calligraphic in svg.js (Lete calligraphic in tex-calligraphic.js)
+    # Wire calligraphic AND script in svg.js
+    # tex-calligraphic.js = empty (mathcal uses Lete defaults from normal.js)
+    # script.js = NewCM ss01 alternates (for mathscr)
     svg_js = os.path.join(OUTPUT_DIR, 'cjs/svg.js')
     with open(svg_js) as f: sjs = f.read()
     if 'tex_calligraphic' not in sjs:
@@ -176,21 +178,27 @@ def main():
             'var delimiters_js_1 = require("./svg/delimiters.js");',
             'var tex_calligraphic_js_1 = require("./svg/tex-calligraphic.js");\n'
             'var tex_calligraphic_bold_js_1 = require("./svg/tex-calligraphic-bold.js");\n'
+            'var script_js_1 = require("./svg/script.js");\n'
+            'var script_bold_js_1 = require("./svg/script-bold.js");\n'
             'var delimiters_js_1 = require("./svg/delimiters.js");')
         sjs = sjs.replace(
             "'-dup': dup_js_1.dup\n    };",
             "'-dup': dup_js_1.dup,\n"
             "        '-tex-calligraphic': tex_calligraphic_js_1.texCalligraphic,\n"
-            "        '-tex-bold-calligraphic': tex_calligraphic_bold_js_1.texCalligraphicBold\n"
+            "        '-tex-bold-calligraphic': tex_calligraphic_bold_js_1.texCalligraphicBold,\n"
+            "        'script': script_js_1.script,\n"
+            "        'bold-script': script_bold_js_1.scriptBold\n"
             "    };")
         sjs = sjs.replace(
             "'-dup': 'D'\n    };",
             "'-dup': 'D',\n"
             "        '-tex-calligraphic': 'TC',\n"
-            "        '-tex-bold-calligraphic': 'TBC'\n"
+            "        '-tex-bold-calligraphic': 'TBC',\n"
+            "        'script': 'SC',\n"
+            "        'bold-script': 'BSC'\n"
             "    };")
         with open(svg_js, 'w') as f: f.write(sjs)
-        print("  Wired calligraphic in svg.js")
+        print("  Wired calligraphic+script in svg.js")
 
     # Script dupe removal from bold/italic/bold-italic
     _SCRIPT_CPS = list(range(0x1D49C, 0x1D504))

diff --git a/mathjax-ptsans/build.py b/mathjax-ptsans/build.py
@@ -171,7 +171,7 @@ def main():
     # Adjust integral widths for better subscript tucking
     adjust_integral_widths(OUTPUT_DIR, smallop_w_ratio=0.89, largeop_w_ratio=0.68)
 
-    # Wire calligraphic in svg.js (Lete calligraphic in tex-calligraphic.js)
+    # Wire calligraphic AND script in svg.js
     svg_js = os.path.join(OUTPUT_DIR, 'cjs/svg.js')
     with open(svg_js) as f: sjs = f.read()
     if 'tex_calligraphic' not in sjs:
@@ -179,21 +179,27 @@ def main():
             'var delimiters_js_1 = require("./svg/delimiters.js");',
             'var tex_calligraphic_js_1 = require("./svg/tex-calligraphic.js");\n'
             'var tex_calligraphic_bold_js_1 = require("./svg/tex-calligraphic-bold.js");\n'
+            'var script_js_1 = require("./svg/script.js");\n'
+            'var script_bold_js_1 = require("./svg/script-bold.js");\n'
             'var delimiters_js_1 = require("./svg/delimiters.js");')
         sjs = sjs.replace(
             "'-dup': dup_js_1.dup\n    };",
             "'-dup': dup_js_1.dup,\n"
             "        '-tex-calligraphic': tex_calligraphic_js_1.texCalligraphic,\n"
-            "        '-tex-bold-calligraphic': tex_calligraphic_bold_js_1.texCalligraphicBold\n"
+            "        '-tex-bold-calligraphic': tex_calligraphic_bold_js_1.texCalligraphicBold,\n"
+            "        'script': script_js_1.script,\n"
+            "        'bold-script': script_bold_js_1.scriptBold\n"
             "    };")
         sjs = sjs.replace(
             "'-dup': 'D'\n    };",
             "'-dup': 'D',\n"
             "        '-tex-calligraphic': 'TC',\n"
-            "        '-tex-bold-calligraphic': 'TBC'\n"
+            "        '-tex-bold-calligraphic': 'TBC',\n"
+            "        'script': 'SC',\n"
+            "        'bold-script': 'BSC'\n"
             "    };")
         with open(svg_js, 'w') as f: f.write(sjs)
-        print("  Wired calligraphic in svg.js")
+        print("  Wired calligraphic+script in svg.js")
 
     # Script dupe removal from bold/italic/bold-italic
     _SCRIPT_CPS = list(range(0x1D49C, 0x1D504))
